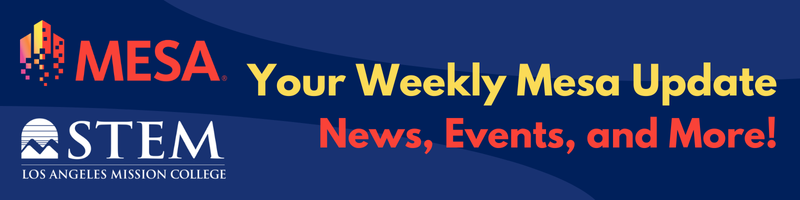
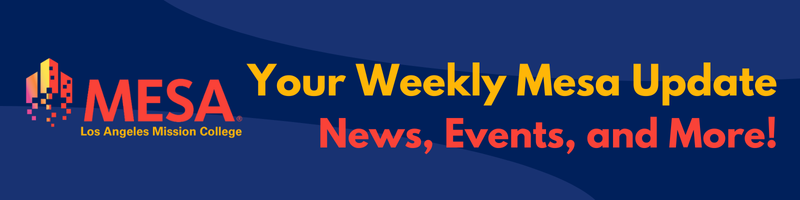
Finalized header stuff

Changed region(s): [[0.0, 0.09, 0.3125, 0.9], [0.3125, 0.3, 0.9688, 0.54]]

diff --git a/emailDrafts/imageHeaderDraft.html b/emailDrafts/imageHeaderDraft.html
@@ -11,10 +11,11 @@
     <title>Your Weekly MESA Update: News, Events, and More!</title>
   </head>
 
-  <body style="width: 800px">
+  <body style="width: 800px; background-color: #ededed;">
 
     <!-- Introduction Stuff -->
     <table>
+      <tr>&nbsp;</tr>
       <tr>
         <td style="width: 8%"></td>
         <td>
@@ -63,7 +64,7 @@
     <title>Your Weekly MESA Update: News, Events, and More!</title>
   </head>
 
-  <body style="width: 800px">
+  <body style="width: 800px; background-color: #ededed;">
 
     <!-- Upcoming Events  -->
     <table>
@@ -136,7 +137,7 @@
     <title>Your Weekly MESA Update: News, Events, and More!</title>
   </head>
 
-  <body style="width: 800px">
+  <body style="width: 800px; background-color: #ededed;">
 
     <!-- Scholarship & Internship Opportunities -->
     <table>
